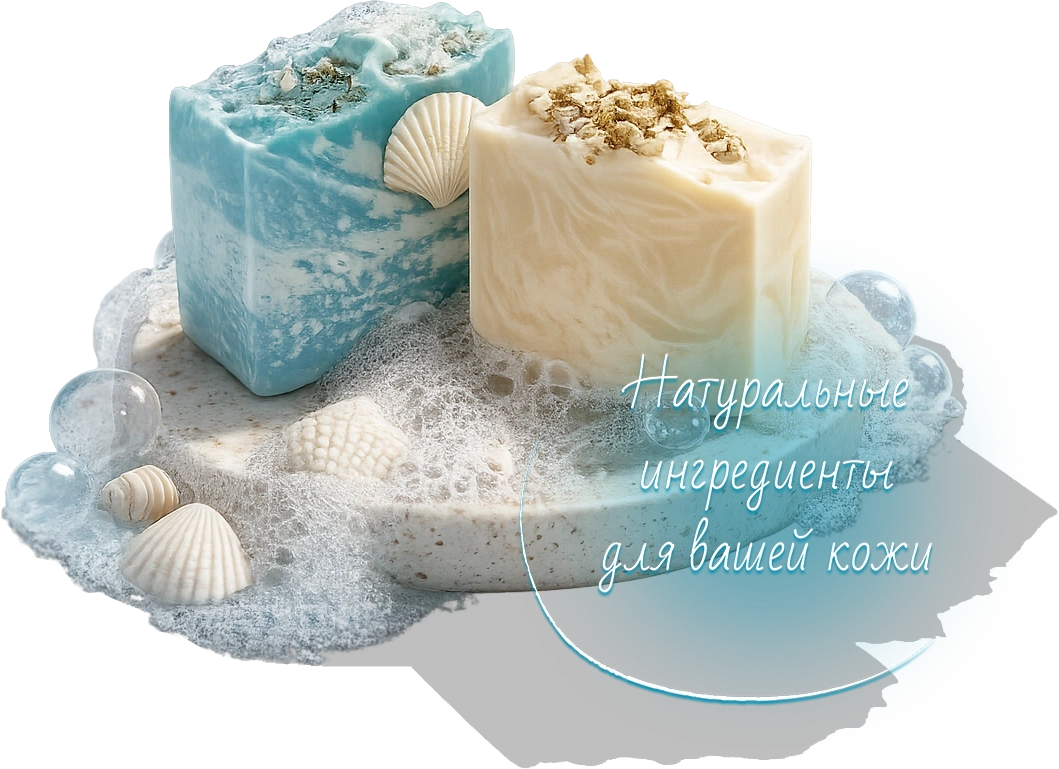
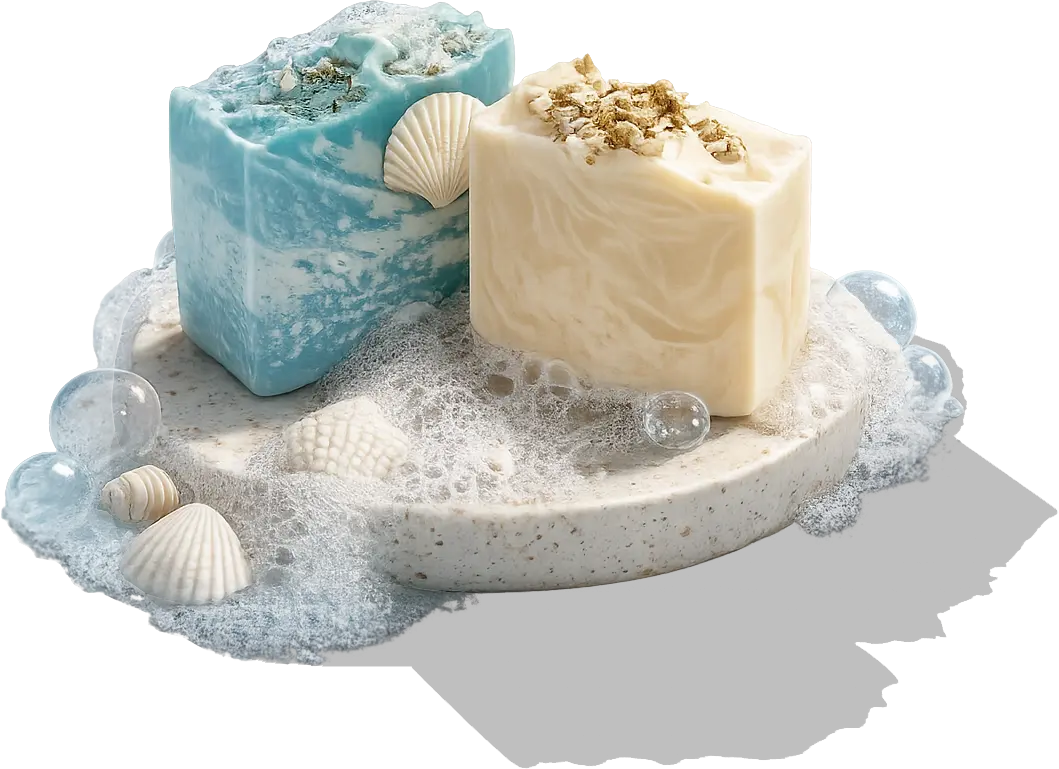
1.0

diff --git a/client/src/Components/Header.jsx b/client/src/Components/Header.jsx
@@ -7,34 +7,86 @@ import AuthModal from "./AuthModal"
 import icon_logo from "../assets/icon/logo.webp"
 import icon_bag from "../assets/icon/bag.webp"
 import icon_bag_hover from "../assets/icon/bag-hover.webp"
-import icon_user from "../assets/icon/user.webp"
-import icon_user_hover from "../assets/icon/user-hover.webp"
+import icon_menu from "../assets/icon/menu.webp"
+import icon_menu_hover from "../assets/icon/menu-hover.webp"
 
 const Navbar = () => {
-  // const [isAuthOpen, setIsAuthOpen] = useState(false);  
-  const [isOpen, setIsOpen] = useState(false)
+  const [isOpenMenu, setIsOpenMenu] = useState(false)
+  const [isOpenAuth, setIsOpenAuth] = useState(false)
   const navigate = useNavigate()
   const customNavigate = (path)=>{
     const token = localStorage.getItem("token")
     const protectedRoutes = ["/profile"]
     if(protectedRoutes.includes(path) && !token){
-      setIsOpen(true)
+      setIsOpenAuth(true)
     }else{
       navigate(path)
     }
   }    
   return (
     <div id="header">
-      <header className="flex justify-between bg-gradient-to-b from-white py-8 px-32">
+      <header className="bg-gradient-to-b from-white lg:px-32">
+{/* Мобильная версия */}
+      <div className="flex lg:hidden justify-between place-items-center text-md">
         
+        <button  onClick={() => setIsOpenMenu(!isOpenMenu)} 
+        className="bg-white p-3 m-4 rounded-full group hover:ring-1 ring-cyan-900 duration-300">
+          <img src={icon_menu} alt="" className="w-4 absolute"/>
+          <img src={icon_menu_hover} alt="" className="w-4 transition-opacity duration-300 opacity-0 group-hover:opacity-100"/>
+        </button>
+
+        <a onClick={()=>customNavigate("/")} href="#header" className=""><img src={icon_logo} alt="" className="w-16 m-4" /></a>
+
+        <button  onClick={()=>customNavigate("/cart")}
+        className="bg-white p-3 m-4 rounded-full group hover:ring-1 ring-cyan-900 duration-300
+        "
+        ><img src={icon_bag} alt="Shoping bag" className="w-4 absolute" />
+        <img src={icon_bag_hover} alt="Shoping bag" className="w-4 transition-opacity duration-300 opacity-0 group-hover:opacity-100" />
+        </button>
+      </div>
+
+{/* Навигация  */}
+      <div className={`overflow-hidden bg-cyan-100/0 transition-all duration-1000 lg:hidden ${
+          isOpenMenu ? "max-h-[500px]" : "max-h-0 "
+        }`}>
+        <nav className="flex flex-col gap-4 p-4 justify-betwen items-center text-nowrap">
+          <a className="group relative" onClick={()=>customNavigate("/")} href="#header">
+            <span className="hover:font-semibold duration-300">Главная</span>
+            <span className="absolute left-0 bottom-1 h-[2px] w-full scale-x-0 origin-center bg-current duration-300 group-hover:scale-x-100"></span>
+          </a>
+          <button className="group relative scroll-smooth" onClick={()=>customNavigate("/catalogue")}>
+            <span className="hover:font-semibold duration-300">Каталог</span>
+            <span className="absolute left-0 bottom-1 h-[2px] w-full scale-x-0 origin-center bg-current duration-300 group-hover:scale-x-100"></span>
+          </button>
+          <a className="group relative scroll-smooth" onClick={()=>customNavigate("/")} href="#about">
+            <span className="hover:font-semibold duration-300">О нас</span>
+            <span className="absolute left-0 bottom-1 h-[2px] w-full scale-x-0 origin-center bg-current duration-300 group-hover:scale-x-100"></span>
+          </a>
+          <a className="group relative"  onClick={()=>customNavigate("/")} href="#reviews">
+            <span className="hover:font-semibold duration-300">Отзывы</span>
+            <span className="absolute left-0 bottom-1 h-[2px] w-full scale-x-0 origin-center bg-current duration-300 group-hover:scale-x-100"></span>
+          </a>
+          <button className="group relative" onClick={()=>customNavigate("/contacts")}>
+            <span className="hover:font-semibold duration-300">Контакты</span>
+            <span className="absolute left-0 bottom-1 h-[2px] w-full scale-x-0 origin-center bg-current duration-300 group-hover:scale-x-100"></span>
+          </button>
+          <button className="group relative" onClick={()=>customNavigate("/profile")}>
+            <span className="hover:font-semibold duration-300">Профиль</span>
+            <span className="absolute left-0 bottom-1 h-[2px] w-full scale-x-0 origin-center bg-current duration-300 group-hover:scale-x-100"></span>
+          </button>
+        </nav>
+      </div>
+
+{/* Версия для ПК */}
+      <div className="hidden lg:flex justify-between place-items-center text-2xl">
         <div className="">
-          <a onClick={()=>customNavigate("/")} href="#header"
-          className="text-cyan-900">
-            <img src={icon_logo} alt="Shoping bag" className="w-24" />
+          <a onClick={()=>customNavigate("/")} href="#header" className="">
+            <img src={icon_logo} alt="Shoping bag" className="w-24 m-4" />
           </a>
         </div>
 
-        <div className="text-cyan-900 text-xl flex justify-betwen items-center">
+{/* Навигация */}
+        <nav className="flex justify-betwen items-center text-nowrap">
           <a className="m-4 group relative" onClick={()=>customNavigate("/")} href="#header">
             <span className="hover:font-semibold duration-300">Главная</span>
             <span className="absolute left-0 bottom-1 h-[2px] w-full scale-x-0 origin-center bg-current duration-300 group-hover:scale-x-100"></span>
@@ -55,25 +107,25 @@ const Navbar = () => {
             <span className="hover:font-semibold duration-300">Контакты</span>
             <span className="absolute left-0 bottom-1 h-[2px] w-full scale-x-0 origin-center bg-current duration-300 group-hover:scale-x-100"></span>
           </button>
-        </div>
+          <button className="m-4 group relative" onClick={()=>customNavigate("/profile")}>
+            <span className="hover:font-semibold duration-300">Профиль</span>
+            <span className="absolute left-0 bottom-1 h-[2px] w-full scale-x-0 origin-center bg-current duration-300 group-hover:scale-x-100"></span>
+          </button>
+        </nav>
 
         <div className="">
           <button  onClick={()=>customNavigate("/cart")}
-          className="bg-white p-3 m-2 rounded-full group hover:ring-2 ring-cyan-900 duration-300"
+          className="
+          bg-white p-3 m-4 rounded-full group hover:ring-2 ring-cyan-900 duration-300
+          "
           ><img src={icon_bag} alt="Shoping bag" className="w-6 absolute" />
           <img src={icon_bag_hover} alt="Shoping bag" className="w-6 transition-opacity duration-300 opacity-0 group-hover:opacity-100" />
           </button>
-          <button onClick={()=>customNavigate("/profile")}
-          className="bg-white p-3 m-2 rounded-full group hover:ring-2 ring-cyan-900 duration-500"
-          ><img src={icon_user} alt="Shoping bag" className="w-6 absolute" />
-          <img src={icon_user_hover} alt="Shoping bag" className="w-6 transition-opacity duration-300 opacity-0 group-hover:opacity-100" />
-          </button>
         </div>
-      
-      </header>
-      {/* Рендеринг модуля */}
-      {isOpen && <AuthModal onClose={() => setIsOpen(false)} />}
-    
+      </div>
+    </header>
+    {/* Рендеринг модуля */}
+    {isOpenAuth && <AuthModal onClose={() => setIsOpenAuth(false)} />}
     </div>
   )
 }

diff --git a/client/src/Pages/HomePage.jsx b/client/src/Pages/HomePage.jsx
@@ -44,20 +44,20 @@ const HomePage = () => {
       <Header/>
       <UpButton/>
 {/* Главная */}
-      <section id="home" className="h-screen overflow-hidden pt-32 -mb-16">
-        <div className="absolute z-10 mx-64">
-          <h1 className="font-serif text-8xl">Красота.<br/>Чистота.<br/>
+      <section id="home" className="lg:h-screen overflow-hidden lg:pt-32 pt-8 place-content-center">
+        <div className="z-10 relative lg:mx-64 mx-12 ">
+          <h1 className="font-serif lg:text-8xl text-3xl">Красота.<br/>Чистота.<br/>
             <span className="font-myfont text-cyan-600">Ручная работа.</span>
           </h1>
-          <p className="my-16 w-96 text-4xl">Натуральное мыло ручной работы для вашей кожи и удовольствия каждый день.</p>
-          <a href="#hits" className="rounded-full text-3xl py-4 px-12 bg-cyan-600 text-white hover:bg-cyan-900 duration-300">Выбрать мыло<span className="pl-8">→</span></a>        
+          <p className="lg:my-16 my-2 max-w-96 lg:text-4xl text-lg">Натуральное мыло ручной работы для вашей кожи и удовольствия каждый день.</p>
+          <a href="#hits" className="rounded-full lg:text-3xl py-4 px-12 bg-cyan-600 text-white hover:bg-cyan-900 duration-300">Выбрать мыло<span className="pl-8">→</span></a>        
         </div>
-        <div className="float-right">
-          <img src={hero} alt="Хит продаж" className="" />
+        <div className="relative float-right lg:translate-x-24 translate-x-8 lg:-translate-y-full lg:max-w-full max-w-96 ">
+          <img src={hero} alt="Декор" className="" />
         </div>
       </section>
 {/* Хиты */}
-      <section id="hits" className="max-w-[1400px] mx-auto py-16 xl:block" >
+      <section id="hits" className="max-w-[1400px] mx-auto py-16 xl:block hidden" >
         <div className="flex justify-between">
   {/* Заголовок секции */}
           <h2 className="font-serif text-6xl">Наши хиты</h2>
@@ -258,7 +258,7 @@ const HomePage = () => {
         </div>  
       </section>
 {/* Факты о компании */}
-      <section className="max-w-[1400px] mx-auto py-16" id="about">
+      <section className="max-w-[1400px] mx-auto py-16 hidden" id="about">
         <h2 className="text-center font-serif text-6xl">Почему выбирают нас</h2>
         <div className="text-center bg-white/50 rounded-3xl p-12 mt-8 grid grid-cols-5 gap-5">
           <div className="place-items-center grid grid-rows-2">
@@ -299,7 +299,7 @@ const HomePage = () => {
         </div>
       </section>
 {/* Отзывы */}
-      <section className="max-w-[1400px] mx-auto py-16" id="reviews">
+      <section className="max-w-[1400px] mx-auto py-16 hidden" id="reviews">
         <h2 className="text-center font-serif text-6xl">Отзывы наших заказчиков</h2>
         <div className="grid grid-cols-3 gap-5 mt-8">
           <div className="bg-white/70 p-8 rounded-3xl grid grid-rows-3">
@@ -362,7 +362,7 @@ const HomePage = () => {
         </div>
       </section>
 {/* Форма подписки */}
-      <section className="max-w-[1400px] mx-auto py-32 ">
+      <section className="max-w-[1400px] mx-auto py-32 hidden">
         <div className="relative">
           <img src={bubble} alt="" className="absolute w-52 opacity-70 top-4 left-8" />
           <img src={bubble} alt="" className="absolute w-24 right-24 opacity-70 -top-4" />

diff --git a/client/tailwind.config.js b/client/tailwind.config.js
@@ -1,8 +1,13 @@
-/** @type {import('tailwindcss').Config} */
+  /** @type {import('tailwindcss').Config} */
+// eslint-disable-next-line import/no-anonymous-default-export
 export default {
-  content: ["./src/**/*.{html,js,jsx}"],
-  theme: {
-    extend: {},
-  },
-  plugins: [],
-}
+    content: ["./src/**/*.{html,js,jsx}"],
+    theme: {
+      extend: {
+        fontFamily: {
+          myfont: ["MyFont", "sans-serif"],
+        },
+      },
+    },
+    plugins: [],
+  }

diff --git a/client/public/index.html b/client/public/index.html
@@ -1,5 +1,5 @@
 <!DOCTYPE html>
-<html lang="en">
+<html lang="ru">
   <head>
     <meta charset="utf-8" />
     <link rel="icon" href="%PUBLIC_URL%/favicon.ico" />
@@ -24,7 +24,7 @@
       work correctly both with client-side routing and a non-root public URL.
       Learn how to configure a non-root public URL by running `npm run build`.
     -->
-    <title>React App</title>
+    <title>SoapSo</title>
   </head>
   <body>
     <noscript>You need to enable JavaScript to run this app.</noscript>

diff --git a/client/src/Components/Footer.jsx b/client/src/Components/Footer.jsx
@@ -10,7 +10,7 @@ const Footer = () => {
   const navigate = useNavigate()
   return (
     <div>
-      <footer className="text-xl flex justify-around bg-cyan-100/70 p-16">
+      <footer className="lg:text-xl text-md flex lg:flex-row flex-col gap-4 justify-around  bg-cyan-100/70 p-16">
         <div className="">
           <a onClick={()=>navigate("/")} href="#header" 
           className="">

diff --git a/client/src/Components/UpButton.jsx b/client/src/Components/UpButton.jsx
@@ -19,7 +19,7 @@ const UpButton = () => {
   return (
     <div>
       <button onClick={scrollToTop}
-        className={`animate-bounce z-10 text-3xl fixed bottom-8 right-8 rounded-full w-16 h-16 bg-cyan-900 text-white duration-300
+        className={`z-10 text-3xl fixed bottom-8 right-8 rounded-full lg:w-16 lg:h-16 w-12 h-12 bg-cyan-900 text-white duration-300
           ${visible
               ? "opacity-100 translate-y-0"
               : "opacity-0 translate-y-4 pointer-events-none"

diff --git a/client/src/input.css b/client/src/input.css
@@ -22,7 +22,7 @@ html{
     font-family: "Main";
     scroll-behavior: smooth;
     background-image: url(./assets/image/background.webp);
-    background-position: center;
+    background-position: top;
     background-repeat: no-repeat;
     background-size: cover;
     color: #164e63;